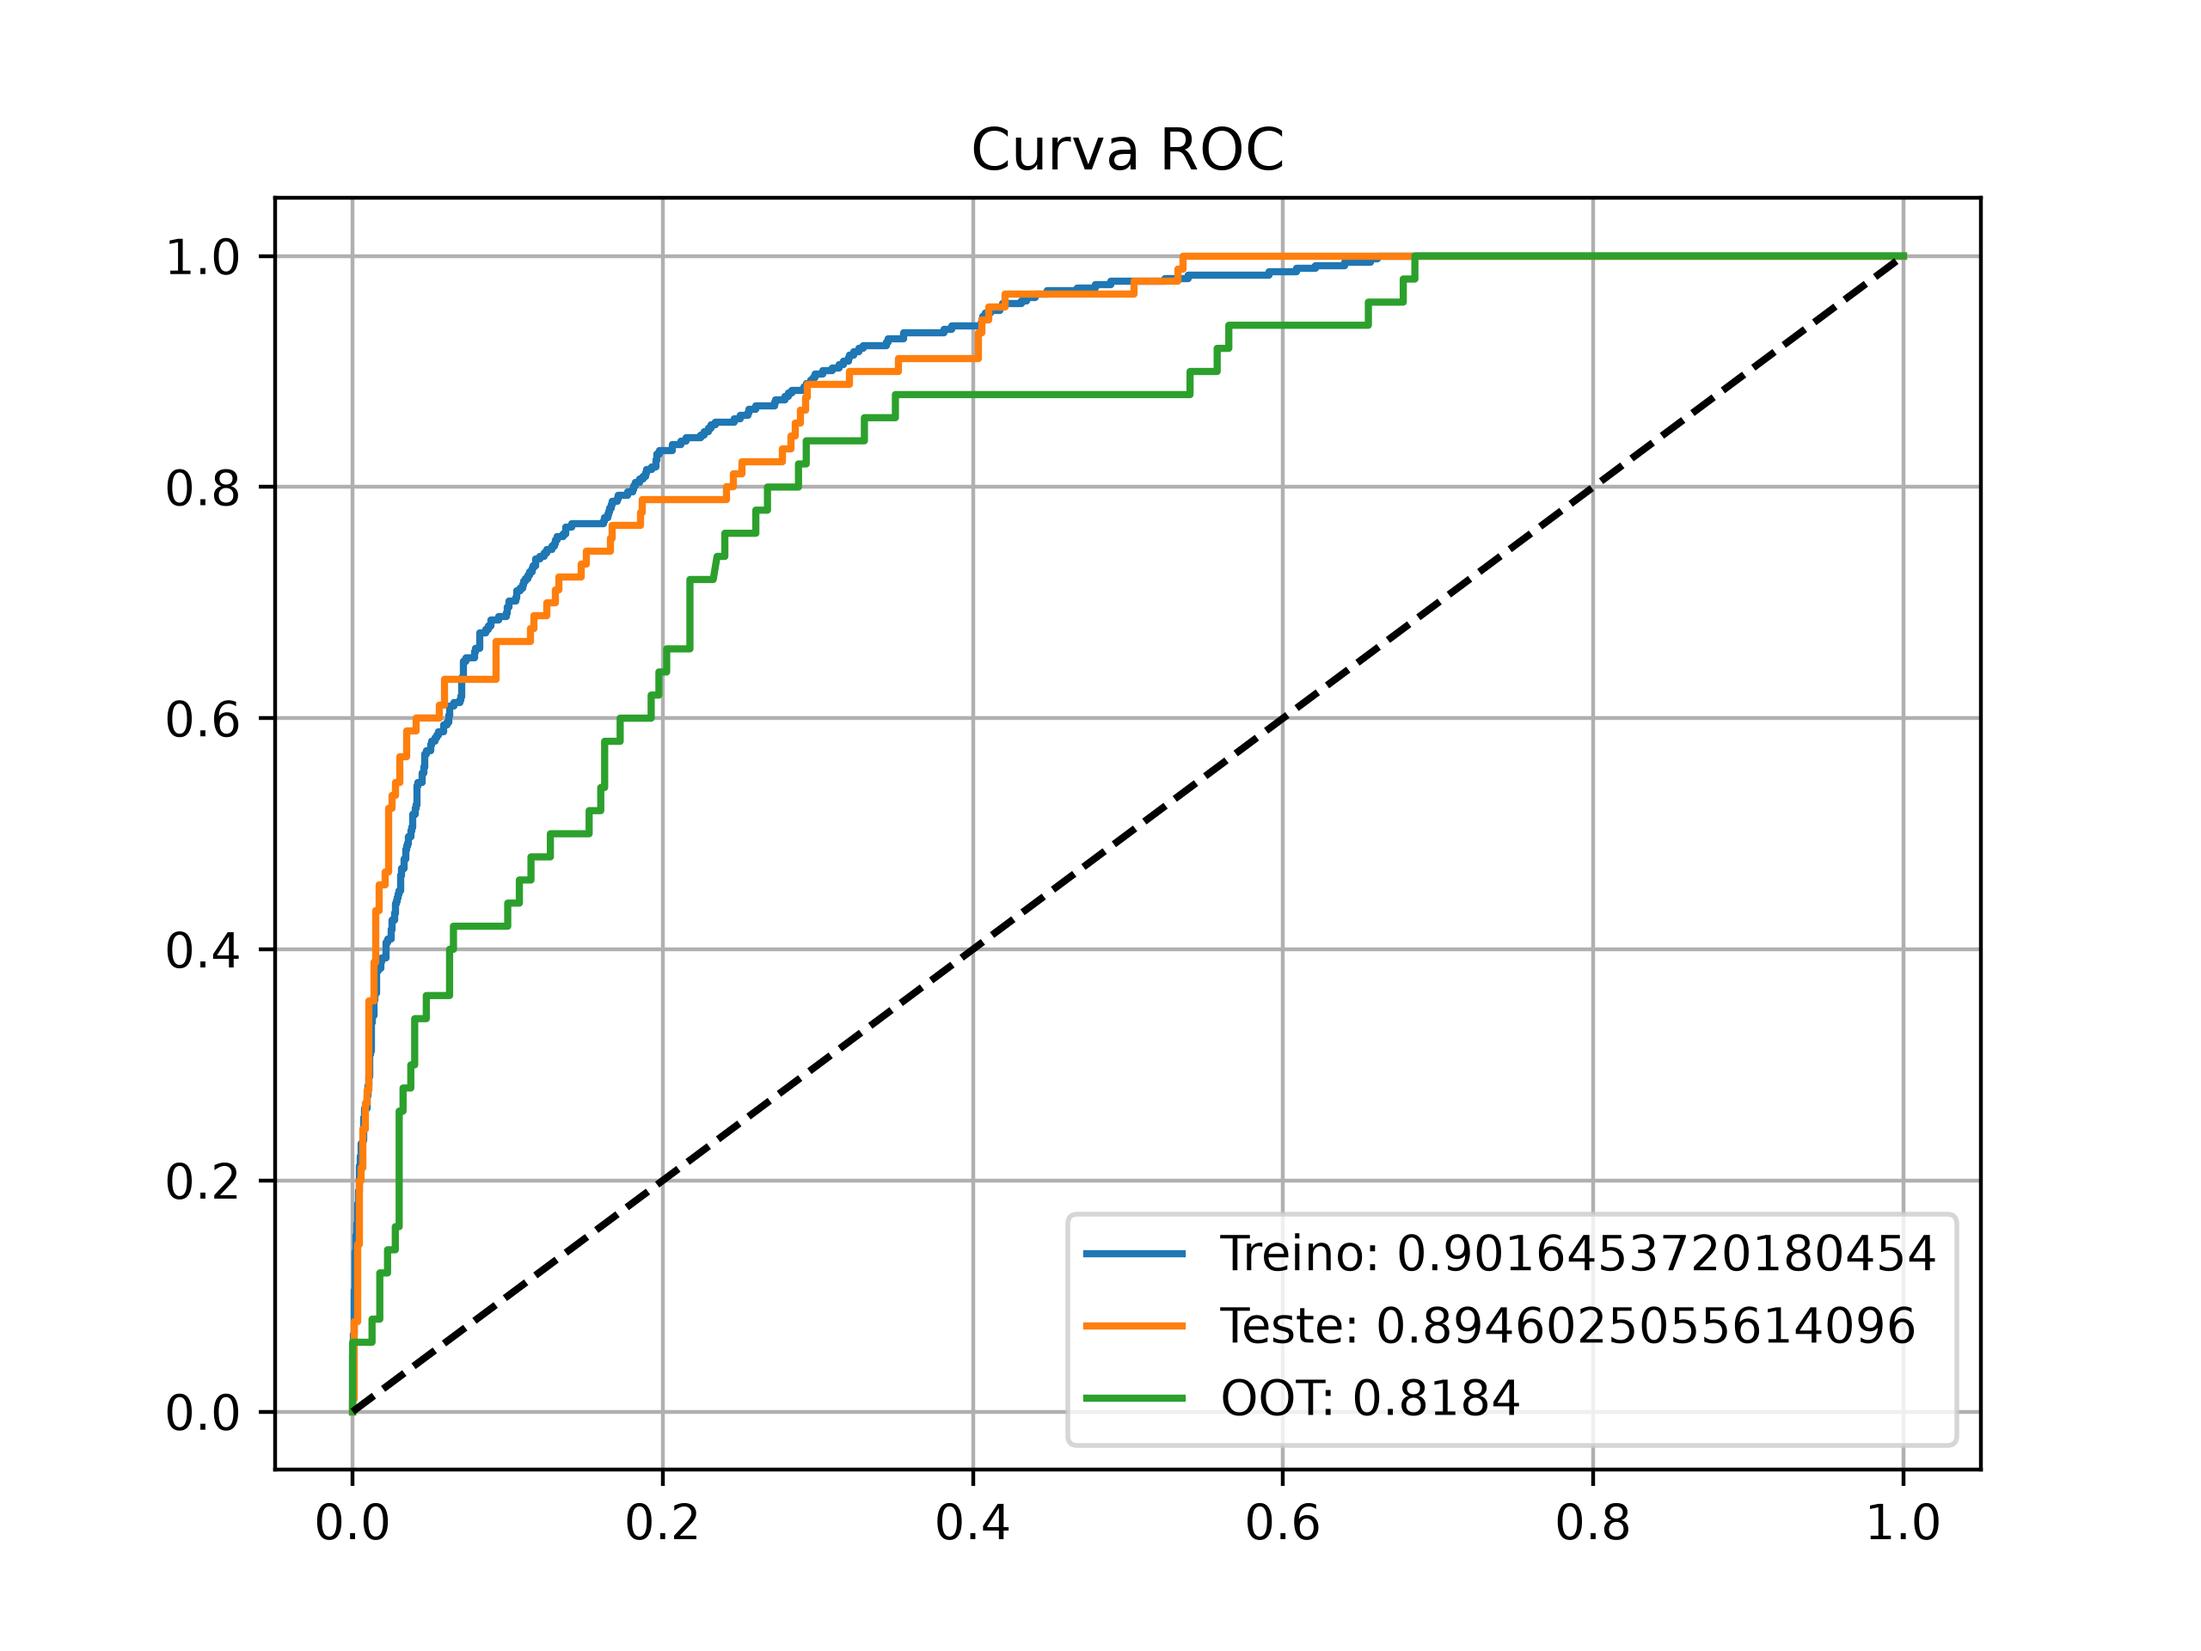
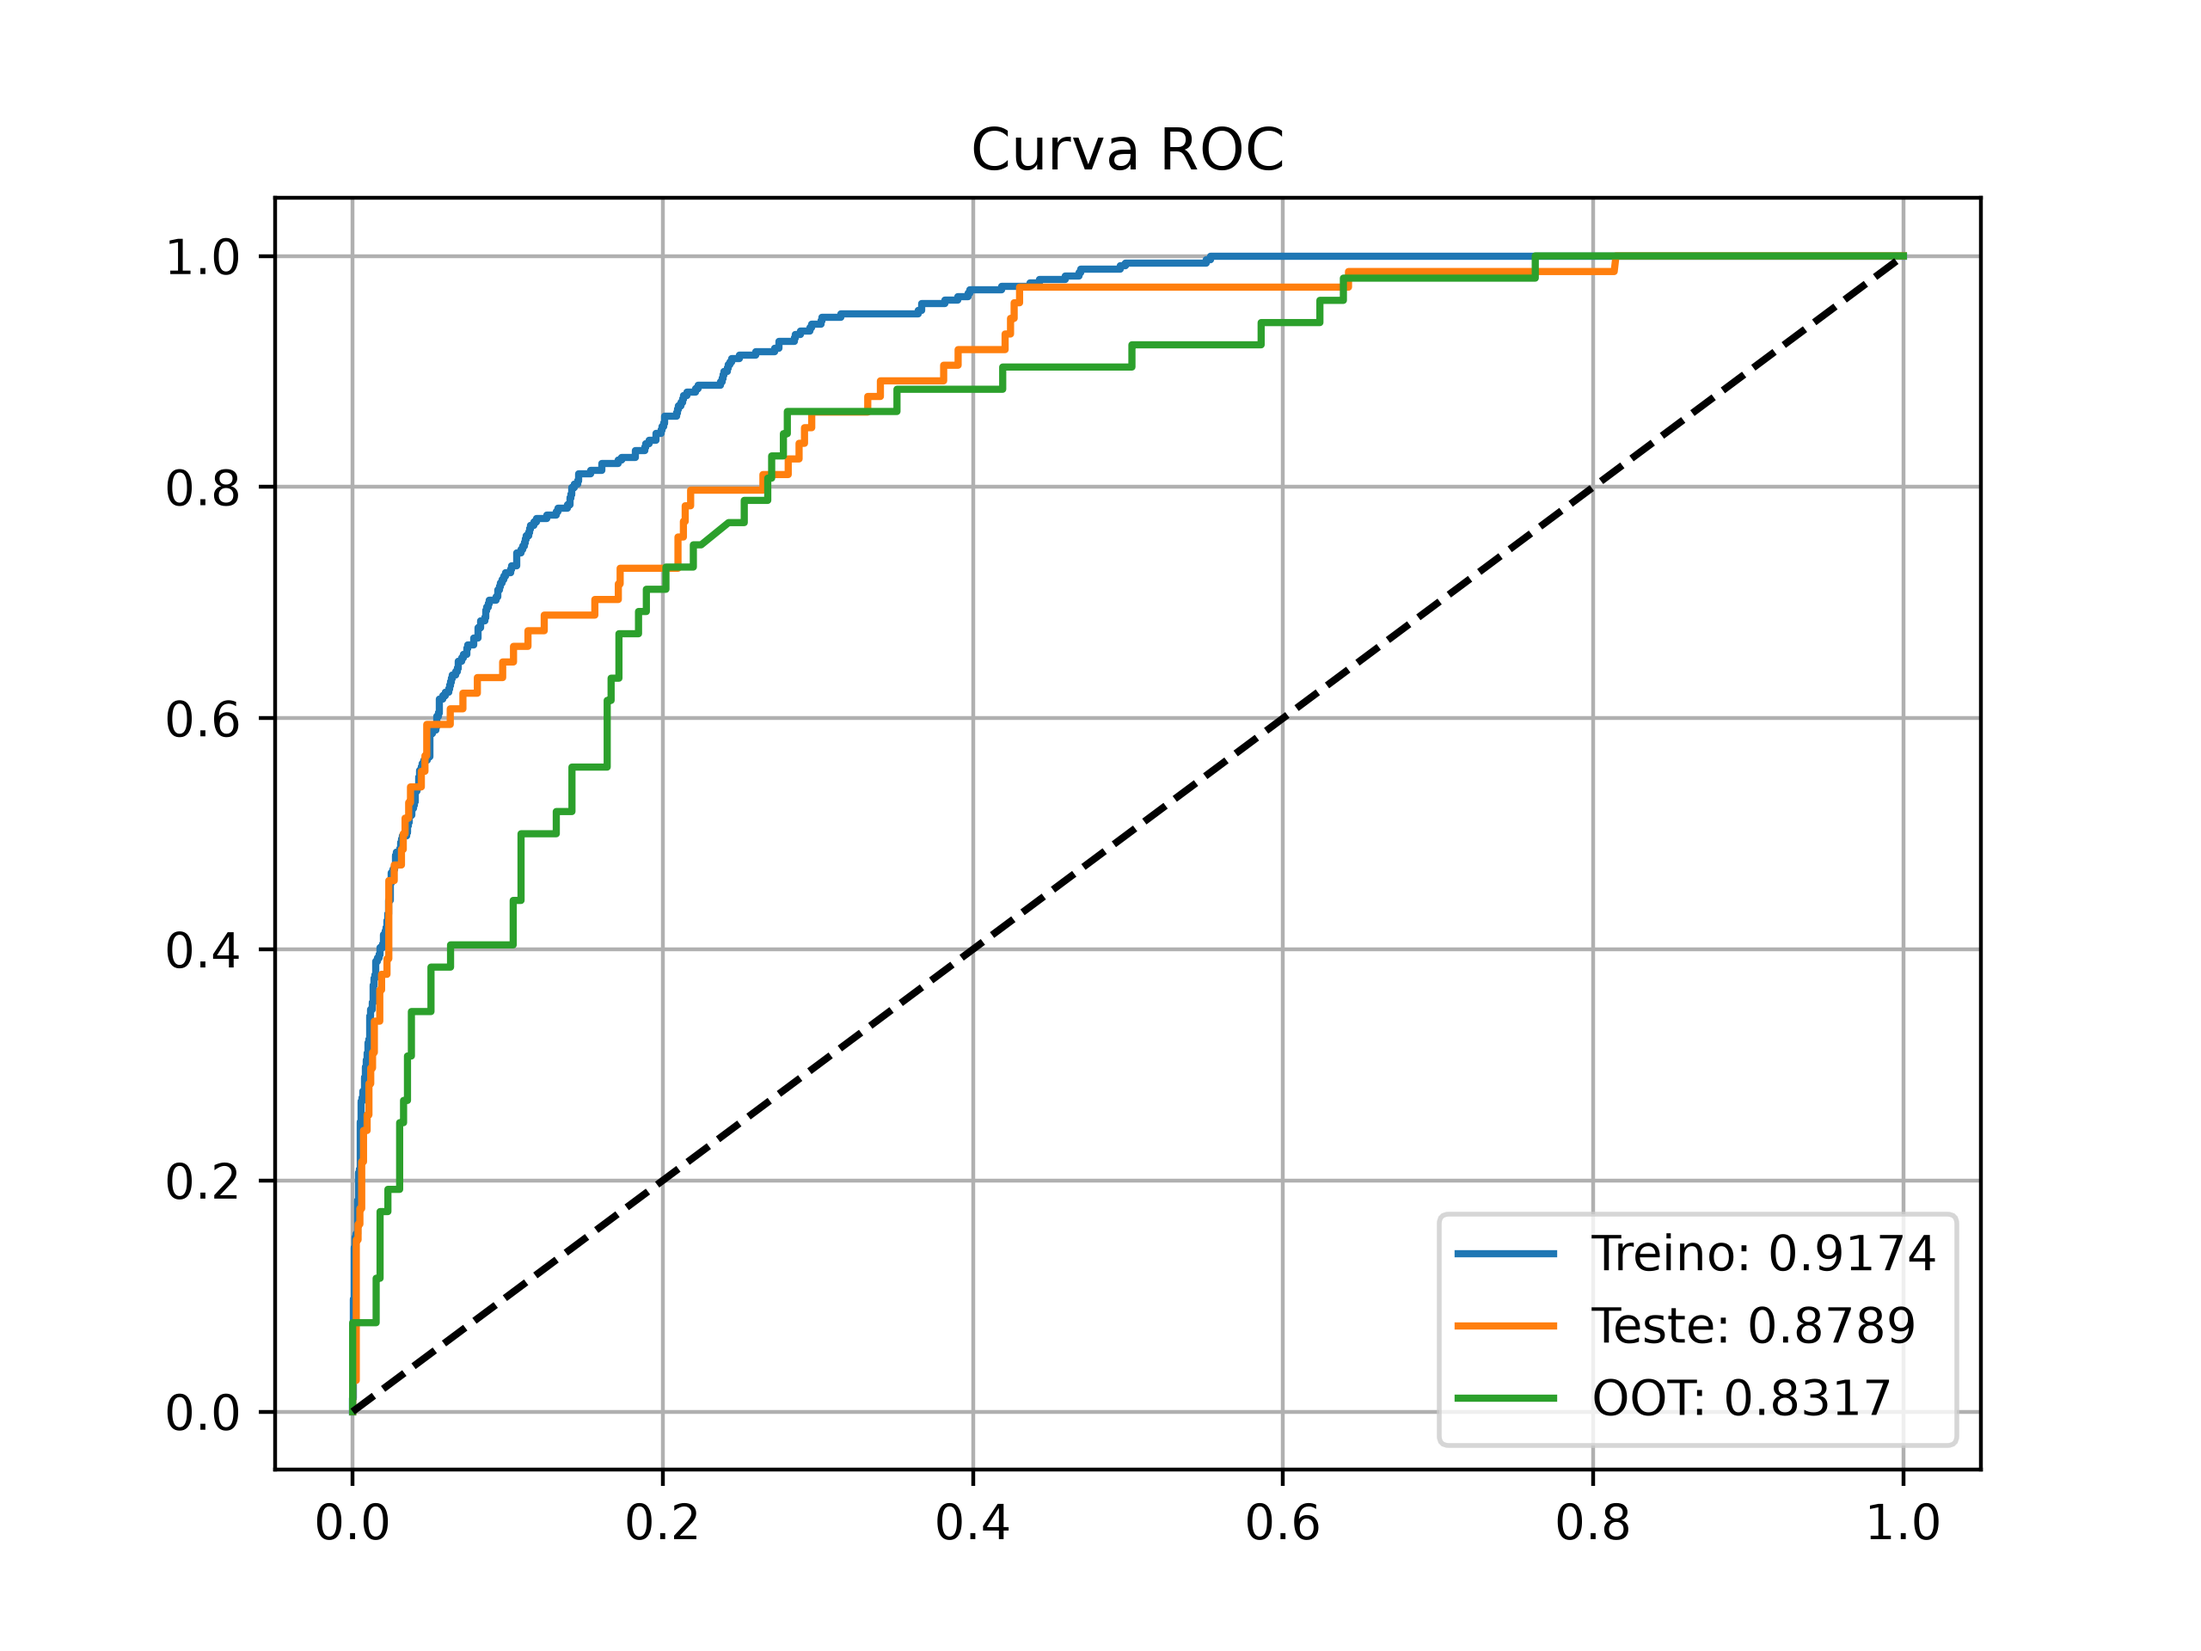
Treino com split e CV por cliente e comparação de versões (I2, M2)
- train.py: GroupShuffleSplit no treino/teste e StratifiedGroupKFold no GridSearch, agrupando por IdCliente
- to_remove calculado sem alterar listas; imputação de 1000 filtrada como a de zeros
- imprime o id do run para registrar o modelo
- compara_modelos.py: avalia todas as versões do model_fiel na mesma OOT
- curva_roc.png da v2 (AUC treino 0,9174 | teste 0,8789 | OOT 0,8317)

Changed region(s): [[0.1562, 0.125, 0.75, 0.6875], [0.4688, 0.7188, 0.875, 0.875], [0.1562, 0.7188, 0.1875, 0.8125]]

diff --git a/src/analytics/train.py b/src/analytics/train.py
@@ -40,14 +40,18 @@ df_train_test = df[df["dtRef"] < df["dtRef"].max()].reset_index(drop=True)
 
 X = df_train_test[features]
 y = df_train_test[target]
+groups = df_train_test["IdCliente"]
 
-X_train, X_test, y_train, y_test = model_selection.train_test_split(
-    X,
-    y,
-    test_size=0.2,
-    random_state=42,
-    stratify=y,
-)
+# separa por cliente: a ABT tem até 2 datas por cliente, e o mesmo cliente
+# no treino e no teste deixaria a métrica de teste otimista
+gss = model_selection.GroupShuffleSplit(n_splits=1, test_size=0.2, random_state=42)
+idx_train, idx_test = next(gss.split(X, y, groups=groups))
+
+X_train, X_test = X.iloc[idx_train], X.iloc[idx_test]
+y_train, y_test = y.iloc[idx_train], y.iloc[idx_test]
+groups_train = groups.iloc[idx_train]
+
+print(f"Clientes em comum entre treino e teste: {len(set(groups_train) & set(groups.iloc[idx_test]))}")
 
 print(f"Base Treino: {y_train.shape[0]} Unid. | Tx.target{100 * y_train.mean():.2f}%")
 print(f"Base Test: {y_test.shape[0]} Unid. | Tx.target{100 * y_test.mean():.2f}%")
@@ -75,13 +79,10 @@ bivariada["ratio"] = (bivariada[1] + 0.001) / (bivariada[0] + 0.001)
 # remove as features com a mesma mediana nas duas classes
 to_remove = bivariada[bivariada["ratio"] == 1].index.tolist()
 
-for i in to_remove:
-    features.remove(i)
-    num_features.remove(i)
+# não altera as listas originais: a célula pode ser rodada de novo sem mudar o resultado
+num_features_ok = [c for c in num_features if c not in to_remove]
 
-bivariada = df_train.groupby(target)[num_features].median().T
-bivariada["ratio"] = (bivariada[1] + 0.001) / (bivariada[0] + 0.001)
-bivariada.sort_values(by="ratio", ascending=False)
+bivariada.loc[num_features_ok].sort_values(by="ratio", ascending=False)
 
 # %%
 
@@ -114,13 +115,15 @@ imput_new = imputation.CategoricalImputer(
     variables=["descLifeCycleD28"],
 )
 
+# mesma ideia: imputa só as que não foram removidas no DROP
+fill_1000 = [
+    c for c in ["avgIntervaloDiasVida", "avgIntervaloDiasD28", "qtdDiasUltimaAtividade"]
+    if c not in to_remove
+]
+
 imput_1000 = imputation.ArbitraryNumberImputer(
     arbitrary_number=1000,
-    variables=[
-        "avgIntervaloDiasVida",
-        "avgIntervaloDiasD28",
-        "qtdDiasUltimaAtividade",
-    ],
+    variables=fill_1000,
 )
 
 # %%
@@ -145,7 +148,8 @@ params = {
 grid = model_selection.GridSearchCV(
             model,
             param_grid=params,
-            cv=3,
+            # CV também por cliente, pelo mesmo motivo do split de teste
+            cv=model_selection.StratifiedGroupKFold(n_splits=3, shuffle=True, random_state=42),
             scoring="roc_auc",
             refit=True,  
             verbose=3,
@@ -170,7 +174,7 @@ with mlflow.start_run() as r:
                 ("Algoritmo", grid),
             ]
         )
-    model_pipeline.fit(X_train, y_train)
+    model_pipeline.fit(X_train, y_train, Algoritmo__groups=groups_train)
 
     # ASSESS - Treino
     y_pred_train = model_pipeline.predict(X_train)
@@ -193,7 +197,7 @@ with mlflow.start_run() as r:
     print("AUC Teste:", auc_test)
 
     # ASSESS - OOT
-    # usa as mesmas colunas do treino (features perdeu as colunas de to_remove)
+    # usa as mesmas colunas do treino
     X_oot = df_oot[X_train.columns]
     y_oot = df_oot[target]
 
@@ -252,6 +256,9 @@ with mlflow.start_run() as r:
     plt.savefig("curva_roc.png")
 
     mlflow.log_artifact("curva_roc.png")
+
+    # o id do run serve para registrar o modelo (interface do MLflow ou mlflow.register_model)
+    print(f"Run do MLflow: {r.info.run_id}")
 
 # %%
 # ASSESS - FEATURE IMPORTANCE

diff --git a/src/analytics/compara_modelos.py b/src/analytics/compara_modelos.py
@@ -1,0 +1,42 @@
+# %%
+# Compara as versões do model_fiel na mesma OOT da ABT atual.
+# Só a OOT serve para comparar versões: o treino e o teste de cada uma saíram de ABTs diferentes.
+
+import os
+
+import mlflow
+import pandas as pd
+import sqlalchemy
+from sklearn import metrics
+
+mlflow.set_tracking_uri(os.getenv("MLFLOW_TRACKING_URI", "http://127.0.0.1:5000"))
+con = sqlalchemy.create_engine("sqlite:///../../data/analytics/database.db")
+
+# %%
+df = pd.read_sql("SELECT * FROM abt_fiel", con)
+df_oot = df[df["dtRef"] == df["dtRef"].max()]
+
+print(
+    f"OOT: dtRef {df_oot['dtRef'].max()} | {len(df_oot)} clientes | "
+    f"Tx. alvo {100 * df_oot['flFiel'].mean():.2f}%"
+)
+
+# %%
+# a busca de versões não traz os aliases; eles vêm do modelo registrado ({alias: versão})
+client = mlflow.MlflowClient()
+aliases = client.get_registered_model("model_fiel").aliases
+
+linhas = []
+versions = mlflow.search_model_versions(filter_string="name='model_fiel'")
+for v in sorted(versions, key=lambda v: int(v.version)):
+    model = mlflow.sklearn.load_model(f"models:/model_fiel/{v.version}")
+    proba = model.predict_proba(df_oot[model.feature_names_in_])[:, 1]
+    linhas.append({
+        "versao": int(v.version),
+        "alias": ", ".join(a for a, ver in aliases.items() if str(ver) == str(v.version)) or "-",
+        "auc_oot": metrics.roc_auc_score(df_oot["flFiel"], proba),
+        "acc_oot": metrics.accuracy_score(df_oot["flFiel"], proba >= 0.5),
+    })
+
+print(pd.DataFrame(linhas).round(4).to_string(index=False))
+# %%
